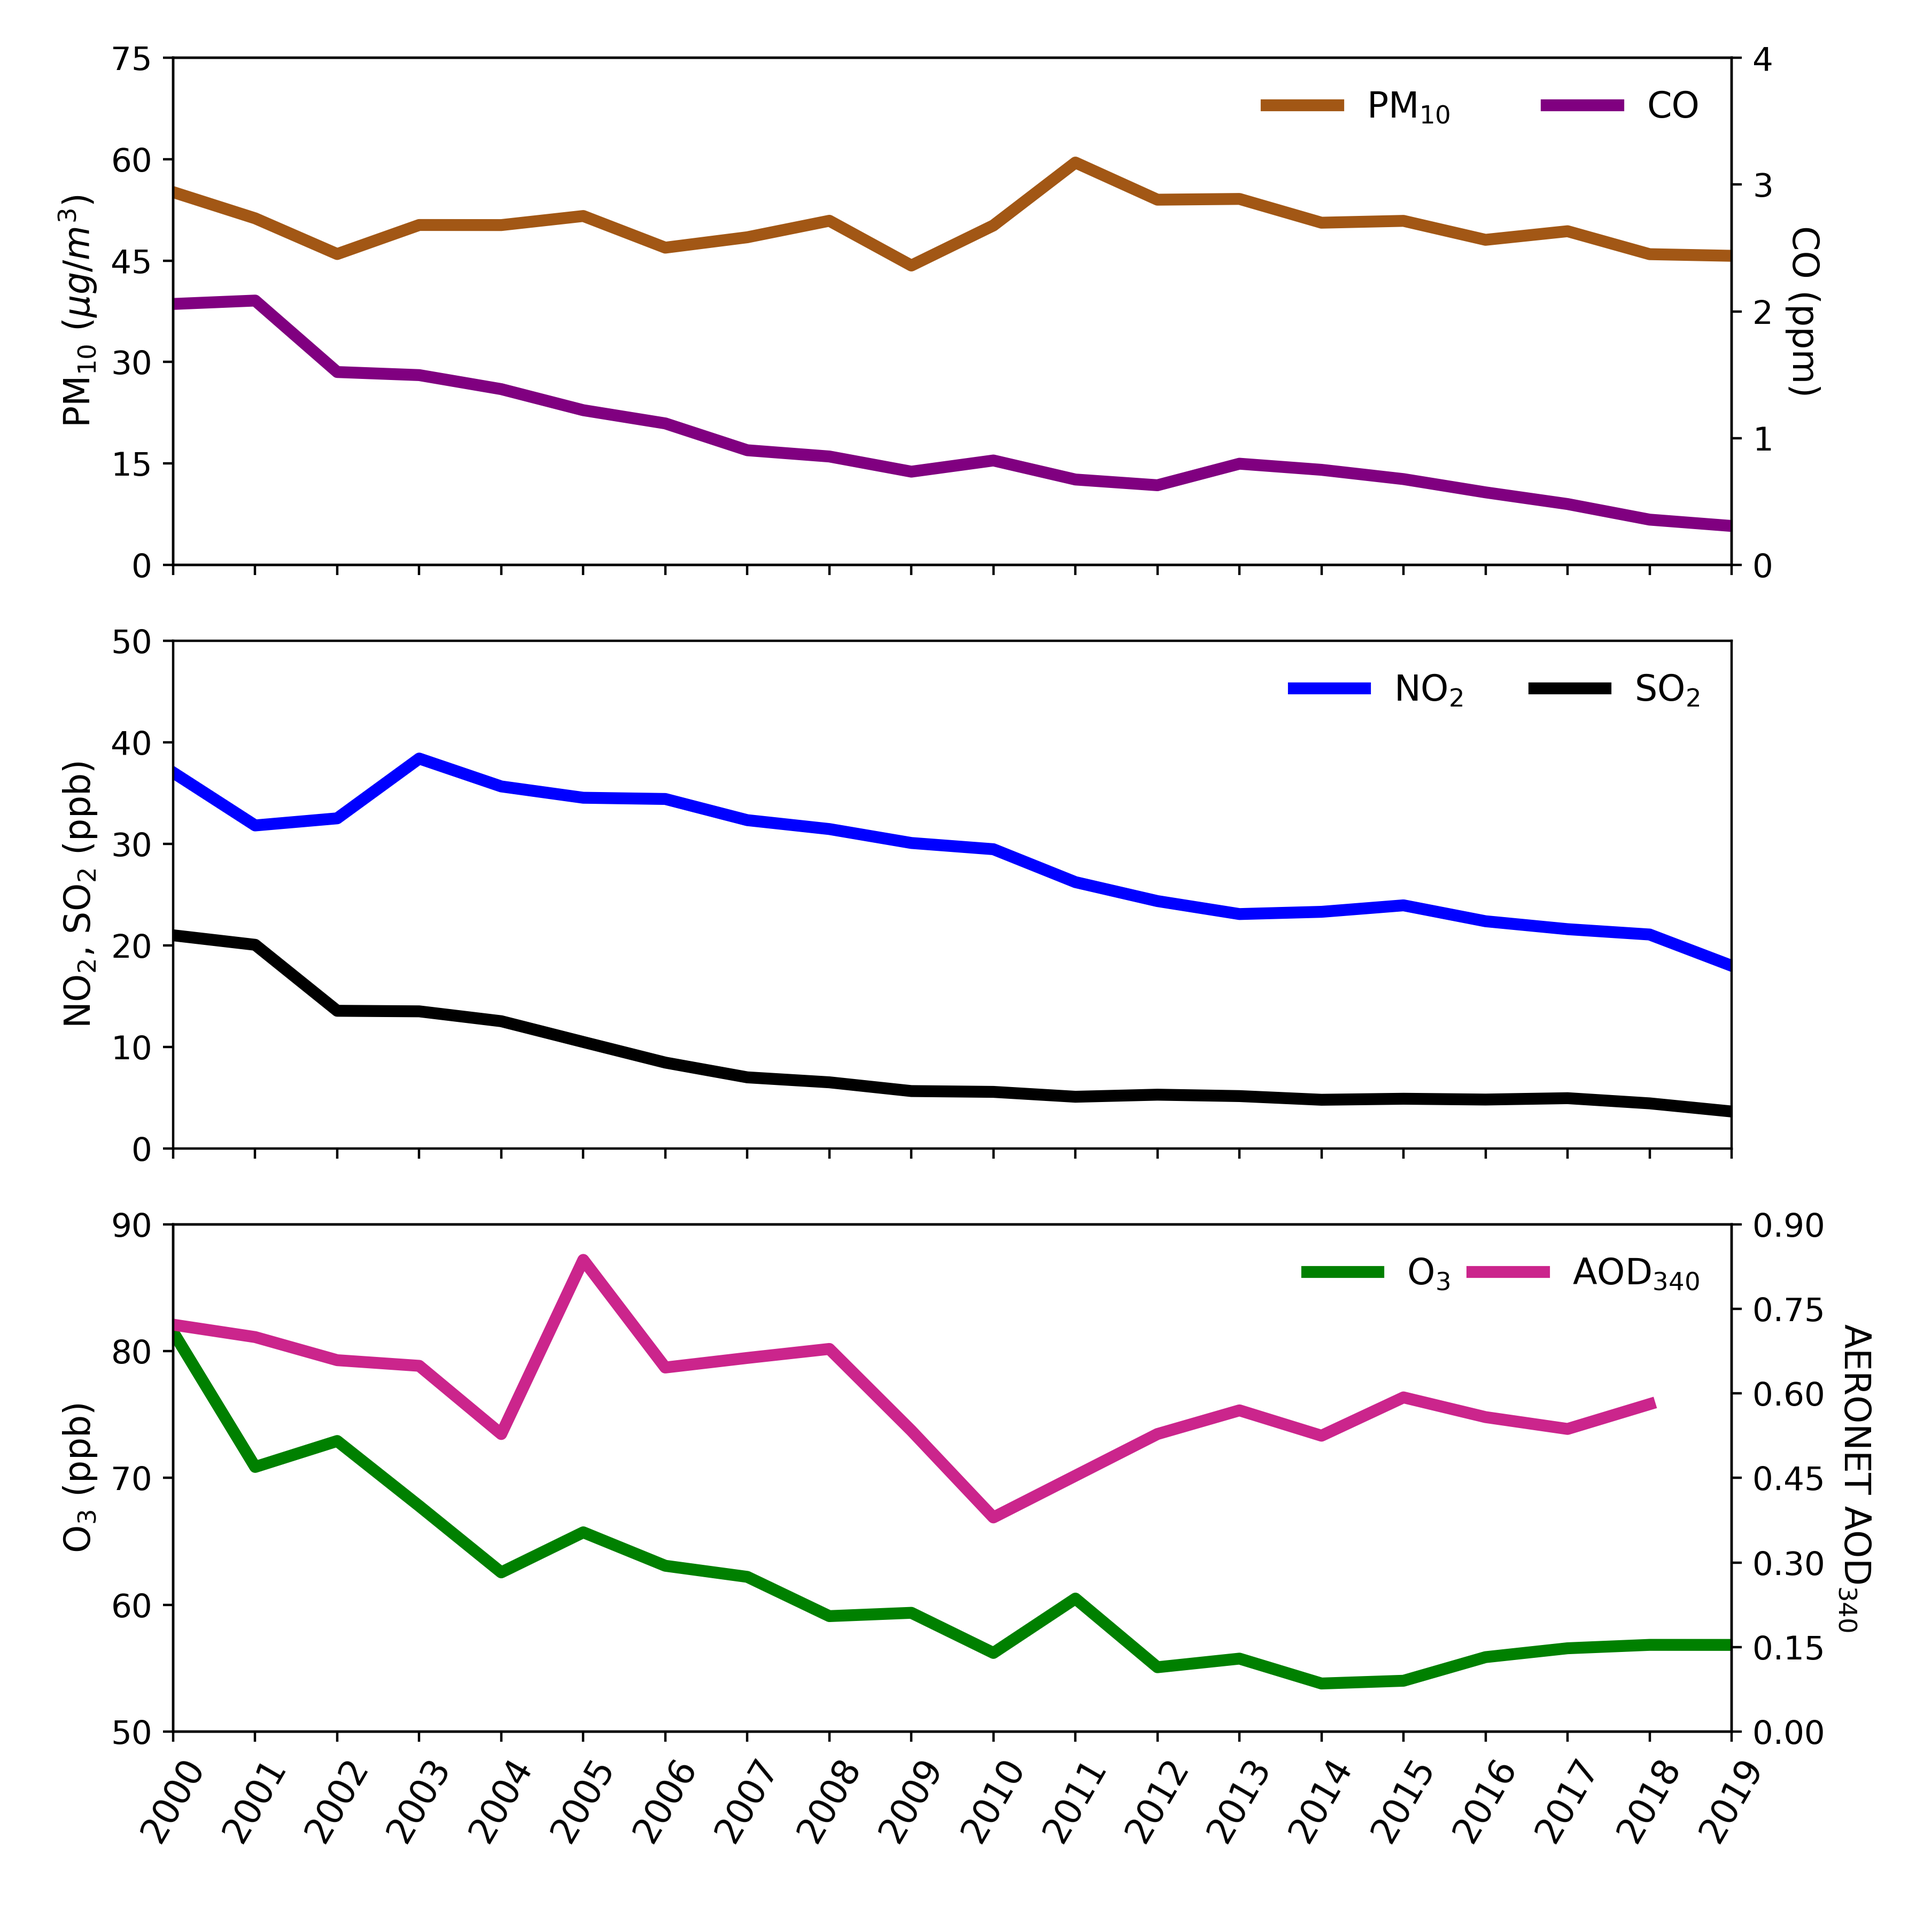
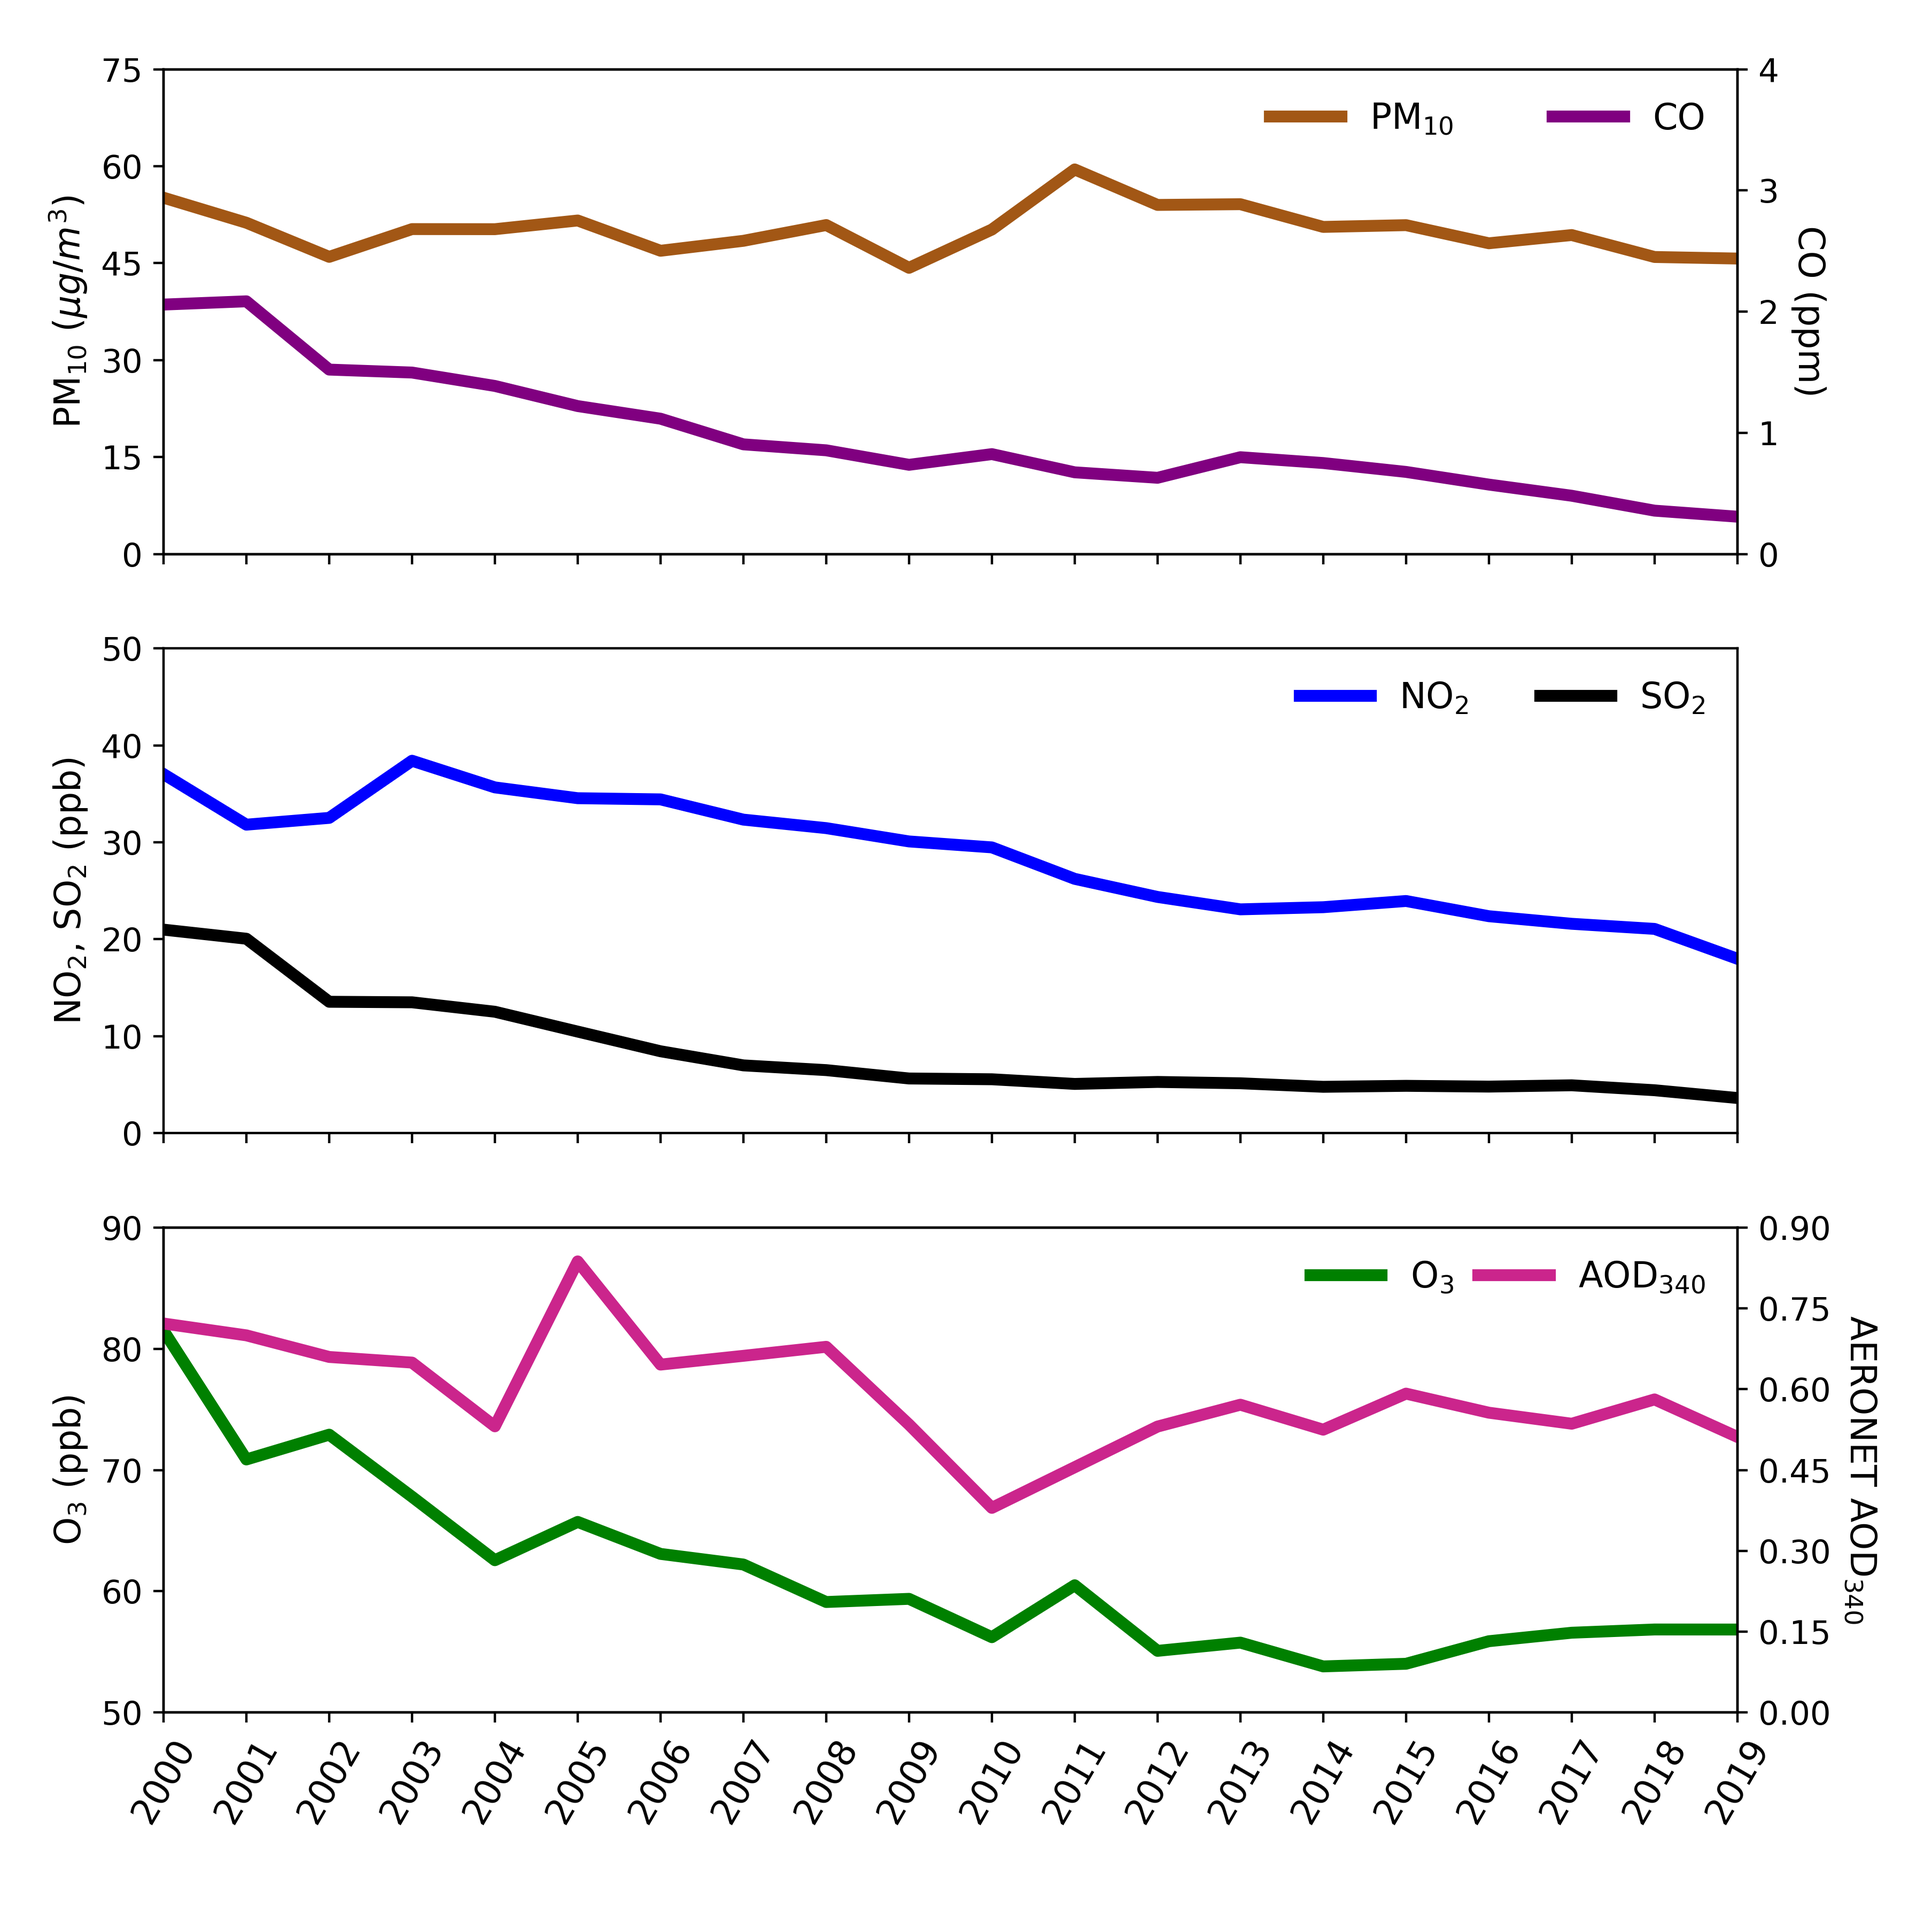
Change graphics

diff --git a/2000-2019/Scripts/Graphics_OMI_data.py b/2000-2019/Scripts/Graphics_OMI_data.py
@@ -32,7 +32,7 @@ def drop_data_useless(data, columns, limit):
     return data
 
 
-def plot_data(data,  date_initial, date_final):
+def plot_data(data,  date_initial, date_final, path, name):
     plt.subplots(figsize=(10, 4))
     plt.subplots_adjust(top=0.963,
                         bottom=0.13,
@@ -47,12 +47,16 @@ def plot_data(data,  date_initial, date_final):
     plt.xlim(pd.to_datetime(date_initial).date(),
              pd.to_datetime(date_final).date())
     plt.xticks(dates, xtick)
-    plt.scatter(data.index, data)
+    plt.scatter(data.index, data,
+                c="#023e8a",
+                marker=".")
     plt.ylim(0, 18)
     plt.yticks(np.arange(0, 20, 2))
     plt.grid(ls="--",
              color="#000000",
              alpha=0.5)
+    plt.savefig("{}{}.png".format(path,
+                                  name))
     plt.show()
 
 
@@ -70,6 +74,7 @@ def obtain_xticks(date_initial, date_final):
 inputs = {
     "path data": "../Archivos/",
     "file data": "Data_OMI_",
+    "path graphics": "../Graphics/",
     "product": "OMUVB",
     "skiprows": 50,
     "UVI limit": 18,
@@ -94,7 +99,9 @@ for uvicolumn in inputs["UVIcolumns"]:
     data_UVI = data[uvicolumn]
     plot_data(data_UVI,
               inputs["day initial"],
-              inputs["day final"])
+              inputs["day final"],
+              inputs["path graphics"],
+              uvicolumn)
     data_UVI.to_csv("{}{}{}.csv".format(inputs["path data"],
                                         inputs["file results"],
                                         uvicolumn),

diff --git a/2000-2019/Scripts/Graphics_pollutants_yearly.py b/2000-2019/Scripts/Graphics_pollutants_yearly.py
@@ -107,28 +107,17 @@ for input, ax in zip(inputs, axs):
     # Impresión de los dattos
     print("{}\t\t {:.2f}\t {:.1f}\t {:.1f}\t{:.2f}".format(
         input, fit[0], prom, fit[0]*100/prom,  fit[1]))
-    ax.plot(list(mean.index), list(mean),
+    ax.plot(list(mean_clean.index.astype(int)-2000), list(mean_clean),
             ls="-",
             label=tick,
             color=color,
             linewidth=parameters["linewidth"])
-    # ax.errorbar(list(mean.index), list(mean),
-    #             yerr=list(std),
-    #             marker="o",
-    #             linewidth=parameters["linewidth"],
-    #             # ls="--",
-    #             alpha=0.6,
-    #             color=color,
-    #             capsize=5,
-    #             markersize=2,
-    #             label=tick,
-    #             )
     ax.set_xlim(0, 19)
     ax.set_ylim(lim_inf, lim_sup)
     yticks = np.arange(lim_inf, lim_sup+delta, delta)
     ax.set_yticks(yticks)
     ax.set_xticks(x)
-    ax.set_xticklabels(x+2000,
+    ax.set_xticklabels(mean.index,
                        rotation=60)
     if ax in [ax2, ax5]:
         ax.set_ylabel(title,
@@ -144,5 +133,5 @@ for input, ax in zip(inputs, axs):
         ax.legend(frameon=False,
                   ncol=2,
                   loc="upper right")
-#plt.savefig(parameters["path graphics"]+"pollutants.png", dpi=400)
+plt.savefig(parameters["path graphics"]+"pollutants.png", dpi=400)
 plt.show()
